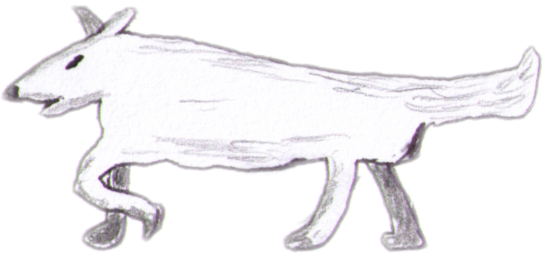
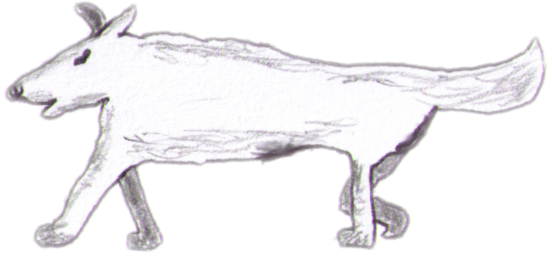
Added small pet dogs and removed large wolves.

Changed region(s): [[0.0, 0.0, 1.0, 1.0], [0.308, 0.375, 0.4004, 0.4062]]

diff --git a/game.html b/game.html
@@ -31,12 +31,16 @@ body {
 <img id="block" src="images/dirt2.png" style="display: none">
 <img id="bounce" src="images/bounce.png" style="display: none">
 <img id="cannonball" src="images/cannonball.png" style="display: none">
-<img id="wolf" src="https://images.ctfassets.net/w00x6p5qkejz/63FwloUEZGiq4UogYUgq4W/f00848baa3a18217379545e289080d73/Wolf_Color_Small_File.png" style="display: none">
 <img id="back1" src="images/back1.png" style="display: none">
 <img id="pig0" src="images/pig0.png" style="display: none">
 <img id="pig1" src="images/pig1.png" style="display: none">
 <img id="pig2" src="images/pig2.png" style="display: none">
 <img id="pig3" src="images/pig3.png" style="display: none">
 <img id="pig4" src="images/pig4.png" style="display: none">
+<img id="wolf0" src="images/wolf0.png" style="display: none">
+<img id="wolf1" src="images/wolf1.png" style="display: none">
+<img id="wolf2" src="images/wolf2.png" style="display: none">
+<img id="wolf3" src="images/wolf3.png" style="display: none">
+<img id="wolf4" src="images/wolf4.png" style="display: none">
 <canvas id="canvas"></canvas>
 <script src="game.js"></script>

diff --git a/game.js b/game.js
@@ -475,7 +475,8 @@ class WolfEntity extends GravityEntity {
   constructor(x, y, w, h, shape) {
     super(x, y, w, h, shape);
     this.direction = 1;
-    this.setSize(225, 180);
+    this.setSize(552 / 3, 256 / 3);
+    this.frameNum = 0;
   }
 
   kill() {
@@ -486,10 +487,15 @@ class WolfEntity extends GravityEntity {
   }
 
   facing() {
-    return this.direction;
+    return -this.direction;
+  }
+
+  frame() {
+    return Math.floor(this.frameNum / 4);
   }
 
   tick() {
+    this.frameNum = (this.frameNum + 1) % 16;
     this.vx += this.direction * 0.3;
     this.vx = Math.max(-2, Math.min(2, this.vx));
     super.tick();
